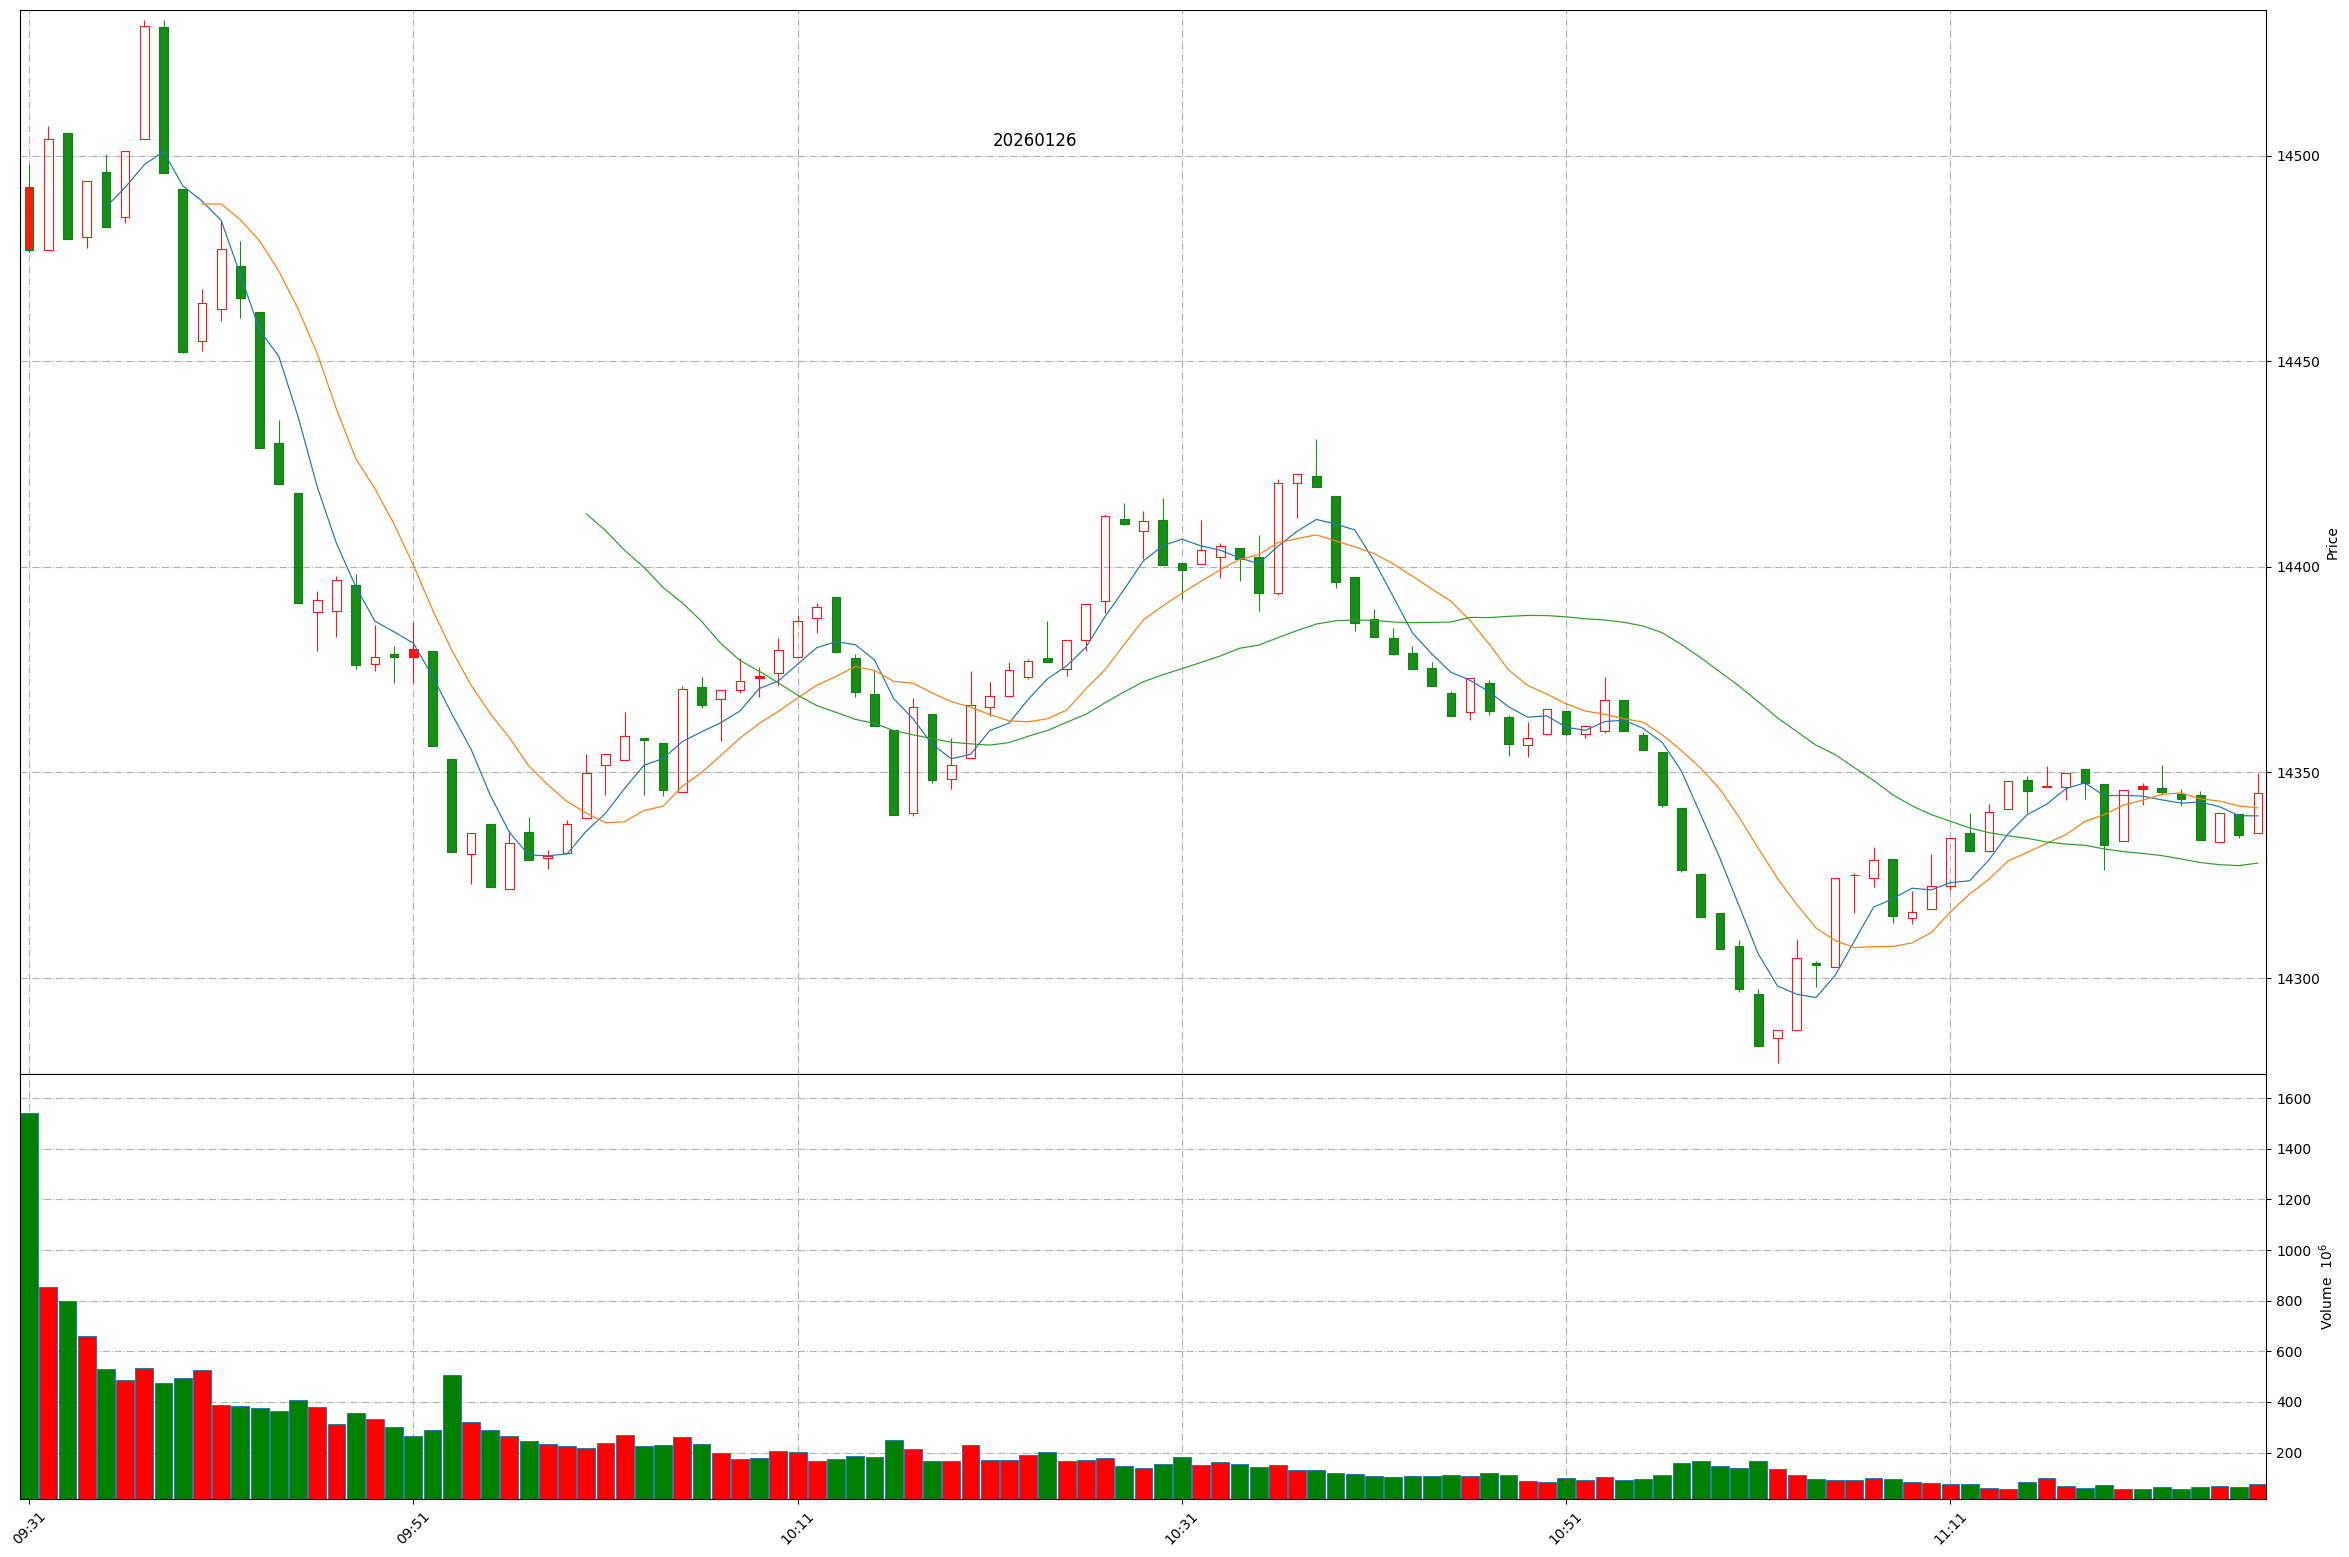
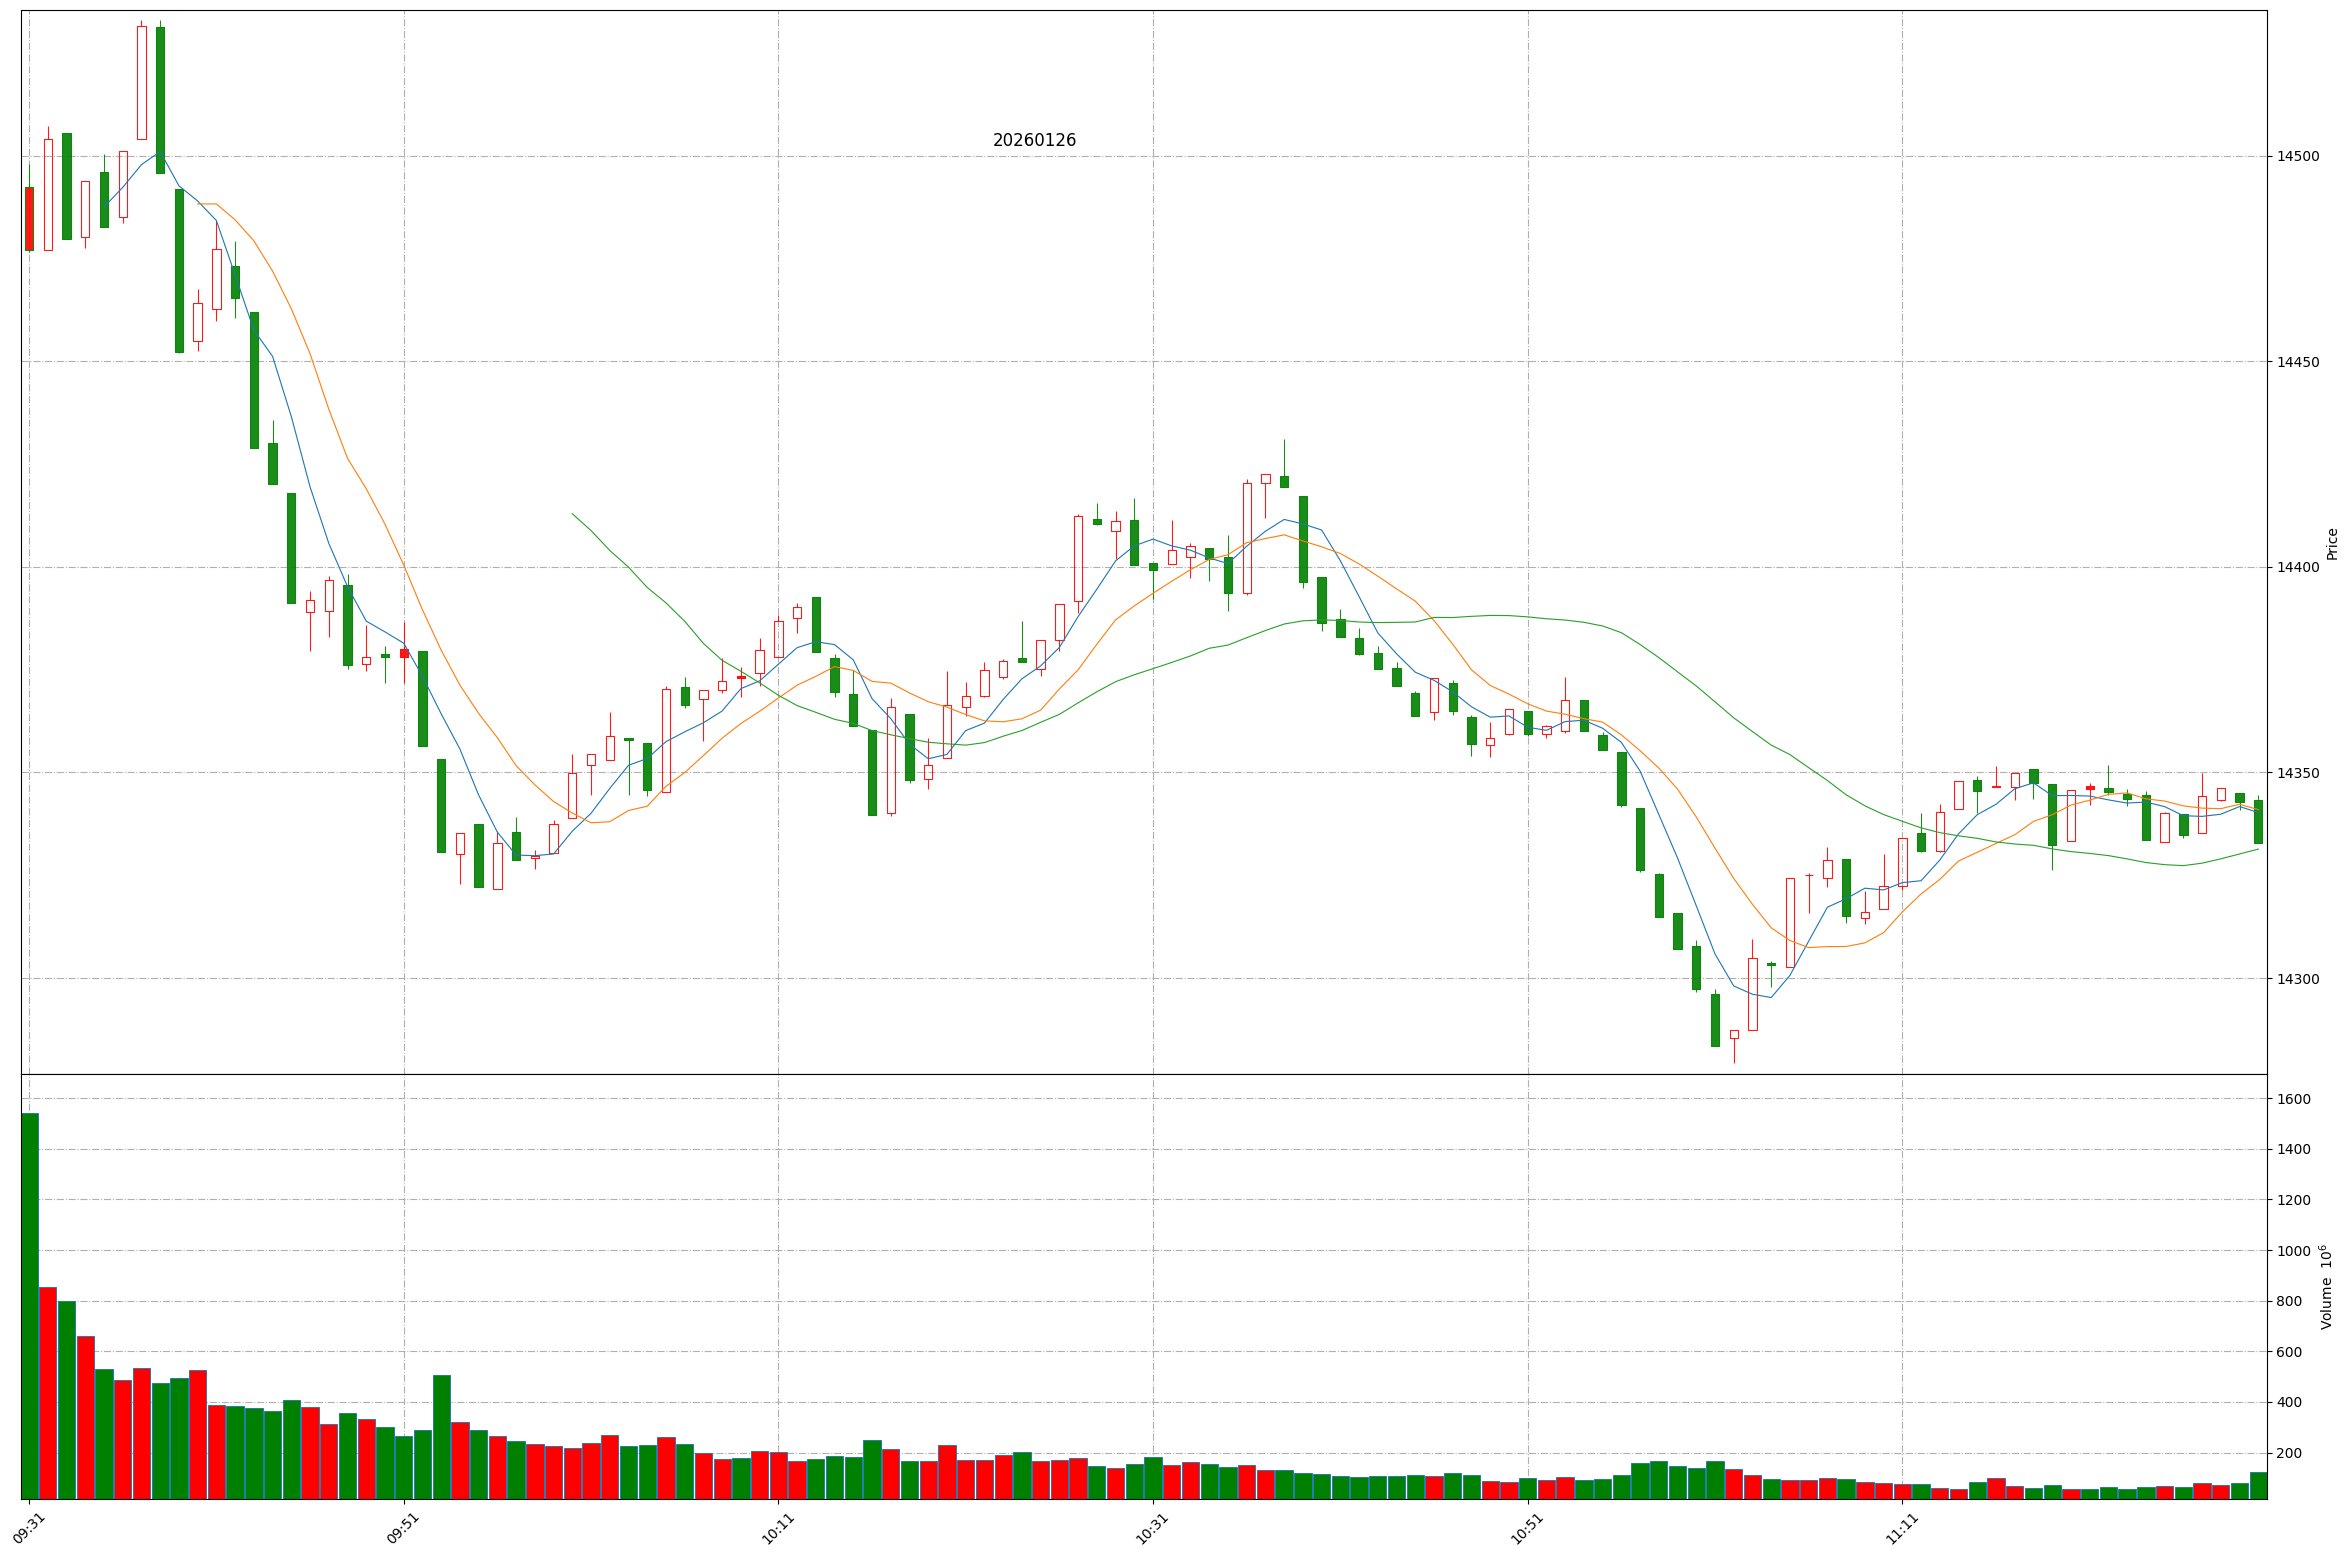
Github action update at 2026-01-26 11:34:18.

Changed region(s): [[0.0311, 0.8632, 0.9634, 0.9865], [0.0311, 0.0308, 0.4662, 0.5857], [0.4662, 0.3083, 0.9634, 0.6782]]

diff --git a/README.md b/README.md
@@ -1,11 +1,11 @@
 
 # Daily-A-share-market-quotes 每日 A 股指数（5min 更新）- 20260126
 
-### 上证指数 20260126 11:27
+### 上证指数 20260126 11:34
 ![](./fig/2026/1/20260126-sh000001.png)
 
-### 深证成指 20260126 11:27
+### 深证成指 20260126 11:34
 ![](./fig/2026/1/20260126-sz399001.png)
 
-### 北证50 20260126 11:27
+### 北证50 20260126 11:34
 ![](./fig/2026/1/20260126-bj899050.png)
